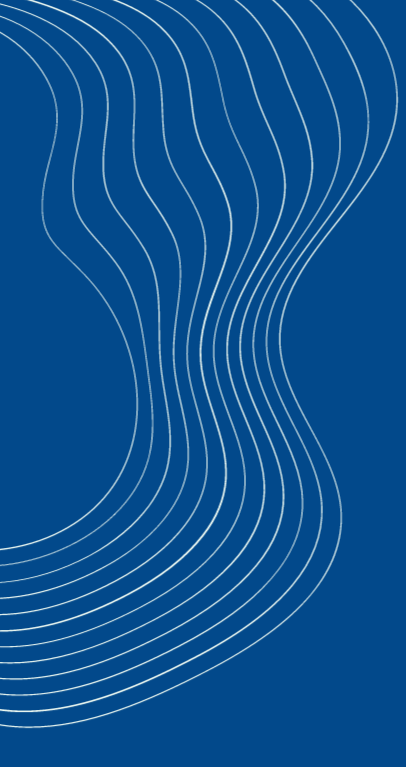
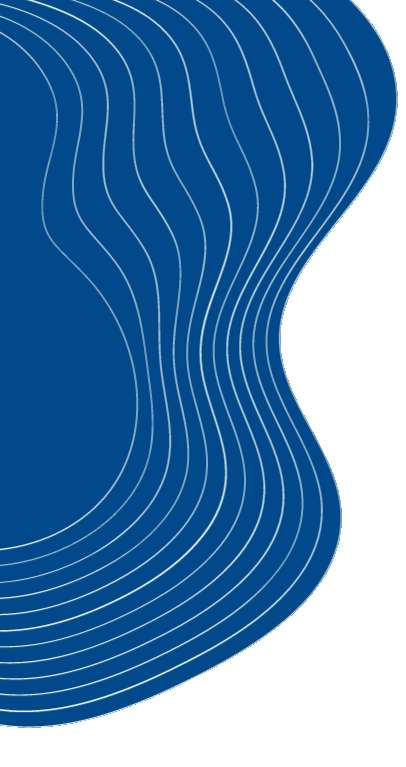
Mobile Changes

Changed region(s): [[0.0, 0.0, 1.0, 1.0]]

diff --git a/index.html b/index.html
@@ -1,6 +1,15 @@
 <!DOCTYPE html>
 <html>
     <head>
+        <meta charset="utf-8">
+        <meta name="theme-color" content="#fff">
+        <meta name="viewport" content="width=device-width, initial-scale=1">
+        <meta name="description" content="">
+        <meta property="og:image" content="">
+        <meta property="og:image:type" content="image/jpeg">
+        <meta property="og:image:width" content="500">
+        <meta property="og:image:height" content="280">
+
         <title>Mitify+ - Grammarly for Disinformation</title>
 
         <link href="https://cdn.jsdelivr.net/npm/bootstrap@5.0.2/dist/css/bootstrap.min.css" rel="stylesheet" integrity="sha384-EVSTQN3/azprG1Anm3QDgpJLIm9Nao0Yz1ztcQTwFspd3yD65VohhpuuCOmLASjC" crossorigin="anonymous">
@@ -27,11 +36,11 @@
         </div>
         <div class="container-fluid page-content pt-4">
             <h2 id="tagline">Empowering people to identify disinformation and mitigate its harmful effects in a seamless and elegant way.</h2>
+            <h3 class="mt-5">What We Do</h3>
+            <p class="wwd-text mt-2">Mitify+ is a disinformation detection and threat intelligence platform that empowers news consumers to break out of echo chambers by providing them with disinformation and bias-free content, which then helps them make better sense of the world around them.</p>
             <div class="style-wrapper-3">
                 <img src="assets/images/m3.png" alt="">
             </div>
-            <h3 class="mt-5">What We Do</h3>
-            <p class="wwd-text mt-2">Mitify+ is a disinformation detection and threat intelligence platform that empowers news consumers to break out of echo chambers by providing them with disinformation and bias-free content, which then helps them make better sense of the world around them.</p>
             <div class="services row">
                 <div class="col-md-4">
                     <img src="assets/images/dd.png" alt="Disinformation Detection">

diff --git a/stylesheet.css b/stylesheet.css
@@ -48,7 +48,10 @@ p {
     font-size: 3rem;
 }
 .mockup-container {
-    margin-top: -15rem;
+    margin-top: -12rem;
+}
+.mockup-container img {
+    max-width: 80vw;
 }
 .style-wrapper-1, .style-wrapper-3 {
     position: absolute;
@@ -64,11 +67,17 @@ p {
 .style-wrapper-3, .style-wrapper-4 {
     z-index: -1;
 }
+div[class^='style-wrapper'] img, div[class*=' style-wrapper'] img {
+    height: 100%;
+}
 .style-wrapper-1 img {
     max-height: 80vh;
 }
 .style-wrapper-2 {
     bottom: 0;
+}
+.style-wrapper-3 {
+    margin-top: -8rem;
 }
 .page-content {
     width: 80%;
@@ -227,3 +236,29 @@ footer p {
               transform: translateY(0);
     }
   }
+/* Media Queries */
+@media screen and (max-width: 576px) {
+    .title {
+        font-size: 3.5rem;
+    }
+    .slogan {
+        font-size: 2rem;
+    }
+    .wwd-text {
+        width: 100%;
+    }
+}
+@media screen and (max-width: 768px) {
+    .style-wrapper-1 {
+        height: 60%;
+    }
+    .style-wrapper-2 {
+        height: 40%;
+    }
+}
+@media screen and (max-width: 991px) {
+    .style-wrapper-3 {
+        height: 50%;
+        margin-top: -3rem;
+    }
+}
